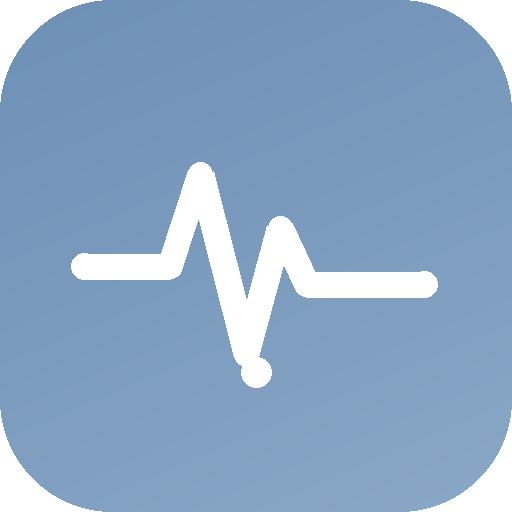
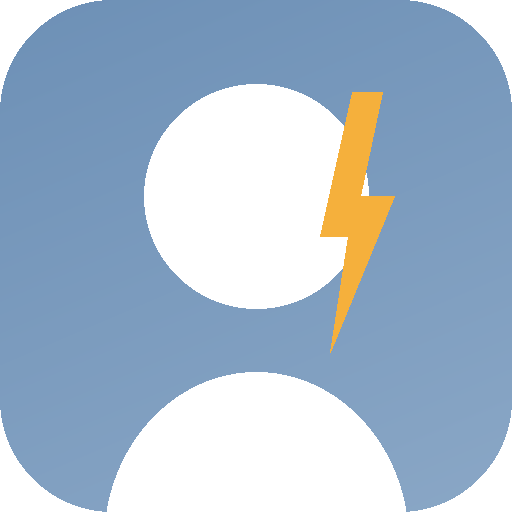
feat: remover + central da barra e novo ícone de enxaqueca
- Barra inferior com 4 separadores (Início, Histórico, Estatística,
  Dados); removido o botão + central redundante e desalinhado
- Botão + discreto no cabeçalho de Histórico e Estatísticas
- Novo ícone: silhueta de cabeça/pessoa com raio de dor na têmpora
- Cache do service worker para v6

Changed region(s): [[0.125, 0.1562, 0.875, 1.0]]

diff --git a/app.js b/app.js
@@ -381,6 +381,10 @@ function renderRegistar() {
   bindCommon();
 }
 
+function addBtn() {
+  return `<button class="add-btn" data-nav="registar" aria-label="Registar crise"><svg viewBox="0 0 24 24" aria-hidden="true"><path d="M12 5v14M5 12h14"/></svg></button>`;
+}
+
 function intDesc(v) {
   if (v <= 2) return 'Ligeira — quase não interfere no dia a dia.';
   if (v <= 4) return 'Leve — incómoda mas consegue funcionar.';
@@ -453,7 +457,7 @@ function renderHistorico() {
   }
 
   const sorted = [...crises].sort((a, b) => sortVal(b) - sortVal(a));
-  let html = `<h1>Histórico</h1><p class="subtitle">${crises.length} ${crises.length === 1 ? 'registo' : 'registos'} no total.</p>`;
+  let html = `<div class="page-head"><div><h1>Histórico</h1><p class="subtitle">${crises.length} ${crises.length === 1 ? 'registo' : 'registos'} no total.</p></div>${addBtn()}</div>`;
 
   let lastKey = '';
   for (const c of sorted) {
@@ -533,8 +537,7 @@ function renderEstatisticas() {
   const topSin = topCounts(crises.flatMap(c => c.sintomas || []));
 
   let html = `
-    <h1>Estatísticas</h1>
-    <p class="subtitle">Padrões a partir dos seus ${total} registos.</p>
+    <div class="page-head"><div><h1>Estatísticas</h1><p class="subtitle">Padrões a partir dos seus ${total} registos.</p></div>${addBtn()}</div>
 
     <div class="stats-grid" style="margin-bottom:14px">
       <div class="stat"><span class="num">${total}</span><span class="lbl">crises</span></div>

diff --git a/app.css b/app.css
@@ -186,14 +186,18 @@ input[type=range] { flex: 1; accent-color: var(--primary); }
 }
 .tab svg { width: 24px; height: 24px; fill: none; stroke: currentColor; stroke-width: 2; stroke-linecap: round; stroke-linejoin: round; }
 .tab.active { color: var(--primary); }
-.tab-fab {
-  background: var(--primary); color: #fff; border-radius: 50%;
-  width: 56px; height: 56px; flex: 0 0 auto; margin-top: -24px;
-  padding: 0; gap: 0; justify-content: center;
-  box-shadow: 0 6px 16px rgba(92,128,168,.4);
+
+/* ---- Cabeçalho de página com botão + ---- */
+.page-head { display: flex; align-items: flex-start; justify-content: space-between; gap: 12px; }
+.page-head h1 { margin-bottom: 2px; }
+.add-btn {
+  flex: 0 0 auto; width: 46px; height: 46px; border-radius: 50%;
+  background: var(--primary); color: #fff; border: none; cursor: pointer;
+  display: flex; align-items: center; justify-content: center; margin-top: 4px;
+  box-shadow: 0 4px 12px rgba(92,128,168,.4);
 }
-.tab-fab svg { width: 28px; height: 28px; stroke-width: 2.4; }
-.tab-fab.active { color: #fff; }
+.add-btn svg { width: 24px; height: 24px; fill: none; stroke: currentColor; stroke-width: 2.4; stroke-linecap: round; }
+.add-btn:active { filter: brightness(.93); }
 
 /* ---- Toast ---- */
 .toast {

diff --git a/index.html b/index.html
@@ -31,9 +31,6 @@
       <svg viewBox="0 0 24 24" aria-hidden="true"><path d="M4 5h16M4 12h16M4 19h16"/></svg>
       <span>Histórico</span>
     </button>
-    <button class="tab tab-fab" data-view="registar" aria-label="Registar crise">
-      <svg viewBox="0 0 24 24" aria-hidden="true"><path d="M12 5v14M5 12h14"/></svg>
-    </button>
     <button class="tab" data-view="estatisticas" aria-label="Estatísticas">
       <svg viewBox="0 0 24 24" aria-hidden="true"><path d="M5 20V10M12 20V4M19 20v-7"/></svg>
       <span>Estatística</span>

diff --git a/sw.js b/sw.js
@@ -1,5 +1,5 @@
 /* Service worker — cache do app shell para funcionar offline */
-const CACHE = 'enxaq-v5';
+const CACHE = 'enxaq-v6';
 const ASSETS = [
   '.',
   'index.html',

diff --git a/icons/gen_icons.py b/icons/gen_icons.py
@@ -1,0 +1,48 @@
+from PIL import Image, ImageDraw
+
+def lerp(a, b, t): return tuple(round(a[i] + (b[i]-a[i])*t) for i in range(3))
+TOP, BOT = (109,144,182), (138,167,198)   # azul mate pastel
+AMBER = (245, 176, 60)
+
+def gradient(size):
+    img = Image.new('RGB', (size, size)); px = img.load()
+    for y in range(size):
+        for x in range(size):
+            tt = min(1.0, (y*0.7 + x*0.3)/(size-1))
+            px[x, y] = lerp(TOP, BOT, tt)
+    return img
+
+def rounded(img, radius):
+    size = img.size[0]
+    mask = Image.new('L', (size, size), 0)
+    ImageDraw.Draw(mask).rounded_rectangle([0,0,size-1,size-1], radius=radius, fill=255)
+    out = Image.new('RGBA', (size, size), (0,0,0,0))
+    out.paste(img, (0,0), mask)
+    return out
+
+def glyph(draw, size, pad):
+    # coordenadas no espaço 512, escaladas e deslocadas por pad
+    s = (size - 2*pad) / 512.0
+    def P(x, y): return (pad + x*s, pad + y*s)
+    def box(x0, y0, x1, y1): return [pad + x0*s, pad + y0*s, pad + x1*s, pad + y1*s]
+    white = (255, 255, 255)
+    # cabeça (círculo) — silhueta de pessoa
+    draw.ellipse(box(256-112, 196-112, 256+112, 196+112), fill=white)
+    # ombros/busto (meia elipse que sai de baixo)
+    draw.ellipse(box(104, 372, 408, 712), fill=white)
+    # raio de dor na têmpora direita (amarelo)
+    bolt = [(352,92),(320,236),(348,236),(330,352),(394,196),(360,196),(382,92)]
+    draw.polygon([P(x, y) for (x, y) in bolt], fill=AMBER)
+
+def make(size, radius_ratio=0.22, pad_ratio=0.0, apple=False):
+    img = gradient(size).convert('RGBA')
+    glyph(ImageDraw.Draw(img), size, int(size*pad_ratio))
+    if apple:
+        return img.convert('RGB')          # iOS: sem transparência
+    return rounded(img, int(size*radius_ratio))
+
+make(192).save('icon-192.png')
+make(512).save('icon-512.png')
+make(512, pad_ratio=0.14).save('icon-maskable-512.png')   # glyph na zona segura
+make(180, apple=True).save('apple-touch-icon.png')
+print('ok')
